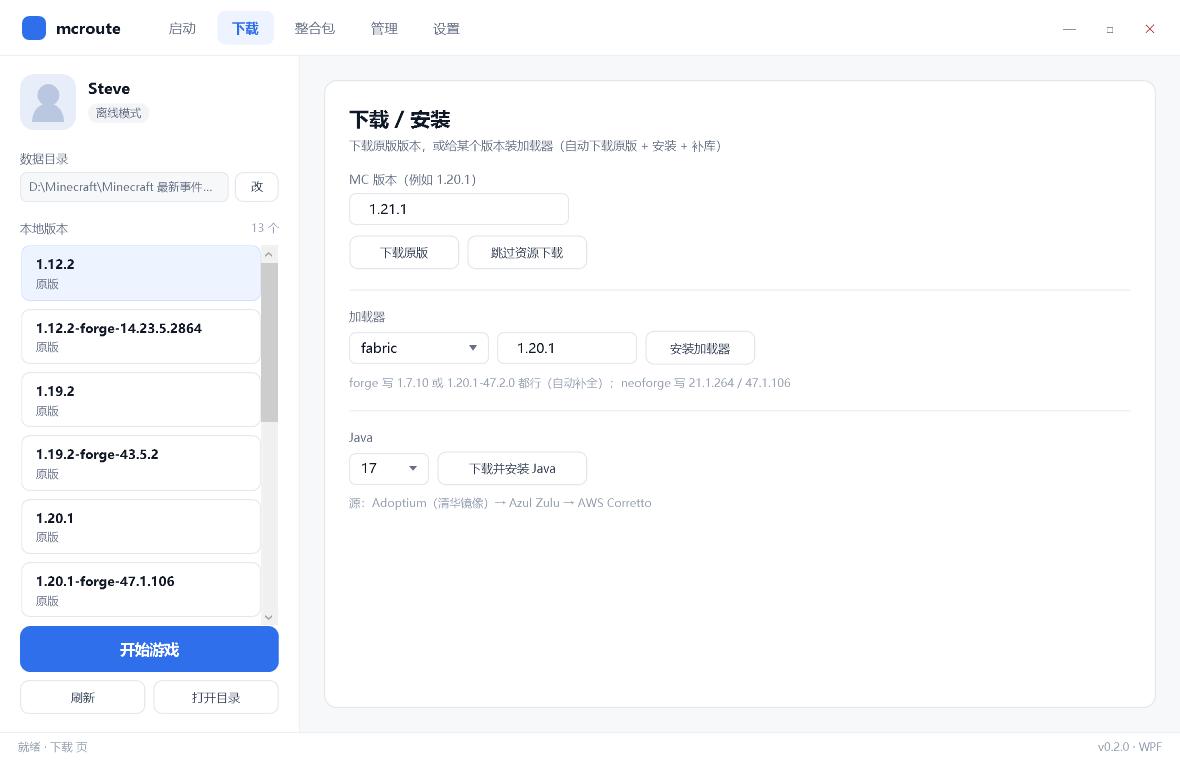
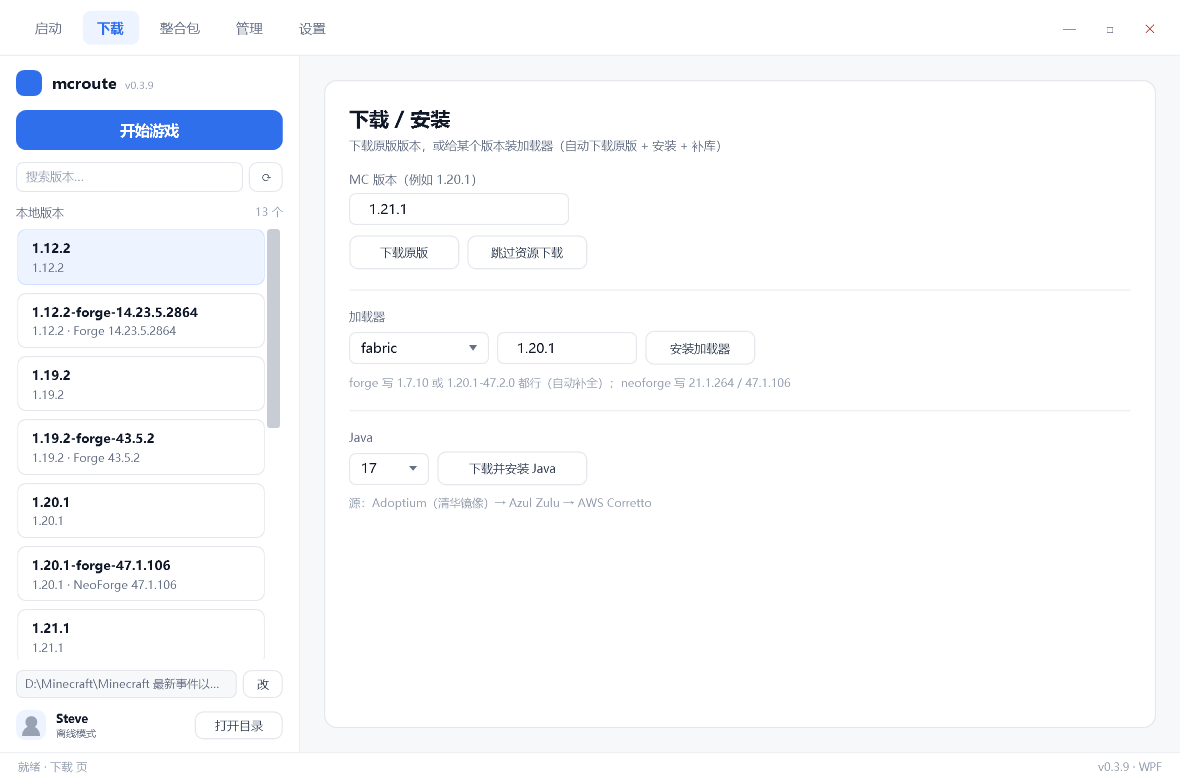
feat(wpf): DSH-style sidebar (brand, primary button on top, version search, footer account); window-wide background layer for glass; 0.3.9

diff --git a/csharp-wpf/MainWindow.xaml b/csharp-wpf/MainWindow.xaml
@@ -366,20 +366,14 @@
         </Grid.RowDefinitions>
 
         <!-- ================= 顶部 ================= -->
-        <Grid Grid.Row="0" Background="{DynamicResource Surface}">
+        <Grid x:Name="TopBar" Grid.Row="0" Background="{DynamicResource Surface}">
             <Grid.ColumnDefinitions>
                 <ColumnDefinition Width="Auto"/>
                 <ColumnDefinition Width="*"/>
                 <ColumnDefinition Width="Auto"/>
             </Grid.ColumnDefinitions>
 
-            <StackPanel Orientation="Horizontal" Margin="22,0,0,0" VerticalAlignment="Center">
-                <Border Width="24" Height="24" CornerRadius="7" Background="{DynamicResource Primary}"/>
-                <TextBlock Text="mcroute" Margin="10,0,0,0" FontSize="15" FontWeight="SemiBold"
-                           Foreground="{DynamicResource Text}" VerticalAlignment="Center"/>
-            </StackPanel>
-
-            <StackPanel Grid.Column="1" Orientation="Horizontal" Margin="34,0,0,0" VerticalAlignment="Center"
+            <StackPanel Grid.Column="1" Orientation="Horizontal" Margin="20,0,0,0" VerticalAlignment="Center"
                         shell:WindowChrome.IsHitTestVisibleInChrome="True">
                 <RadioButton x:Name="NavLaunch" Style="{StaticResource NavItem}" Content="启动" IsChecked="True"
                              GroupName="nav" Checked="Nav_Checked"/>
@@ -410,87 +404,8 @@
                 <ColumnDefinition Width="*"/>
             </Grid.ColumnDefinitions>
 
-            <!-- 左侧栏 -->
-            <Border Background="{DynamicResource Surface}" BorderBrush="{DynamicResource Hairline}" BorderThickness="0,0,1,0">
-                <Grid Margin="20,18,20,18">
-                    <Grid.RowDefinitions>
-                        <RowDefinition Height="Auto"/>
-                        <RowDefinition Height="Auto"/>
-                        <RowDefinition Height="*"/>
-                        <RowDefinition Height="Auto"/>
-                    </Grid.RowDefinitions>
-
-                    <StackPanel Grid.Row="0" Orientation="Horizontal">
-                        <Border Width="56" Height="56" CornerRadius="14" Background="{DynamicResource PrimaryDim}">
-                            <Grid>
-                                <Ellipse Width="22" Height="22" Fill="{DynamicResource TextFaint}" VerticalAlignment="Top" Margin="0,10,0,0"/>
-                                <Path Fill="{DynamicResource TextFaint}" Data="M0,19 C0,7 32,7 32,19 Z" Width="32" Height="19"
-                                      Stretch="Fill" VerticalAlignment="Bottom" HorizontalAlignment="Center" Margin="0,0,0,8"/>
-                            </Grid>
-                        </Border>
-                        <StackPanel Margin="12,4,0,0">
-                            <TextBlock Text="Steve" FontSize="15" FontWeight="SemiBold" Foreground="{DynamicResource Text}"/>
-                            <Border Background="{DynamicResource Hairline}" CornerRadius="9" Padding="8,2" Margin="0,5,0,0" HorizontalAlignment="Left">
-                                <TextBlock Text="离线模式" FontSize="11" Foreground="{DynamicResource TextMuted}"/>
-                            </Border>
-                        </StackPanel>
-                    </StackPanel>
-
-                    <StackPanel Grid.Row="1" Margin="0,20,0,0">
-                        <TextBlock Text="数据目录" Style="{StaticResource FieldLabel}"/>
-                        <Grid>
-                            <Grid.ColumnDefinitions>
-                                <ColumnDefinition Width="*"/>
-                                <ColumnDefinition Width="Auto"/>
-                            </Grid.ColumnDefinitions>
-                            <Border Grid.Column="0" Height="30" CornerRadius="6" Background="{DynamicResource Bg}"
-                                    BorderBrush="{DynamicResource Border}" BorderThickness="1" Padding="8,0">
-                                <TextBlock x:Name="DataDirText" Text="…" FontSize="11" Foreground="{DynamicResource TextMuted}"
-                                           VerticalAlignment="Center" TextTrimming="CharacterEllipsis"/>
-                            </Border>
-                            <Button Grid.Column="1" Style="{StaticResource GhostButton}" Content="改"
-                                    Width="44" Height="30" Margin="6,0,0,0" Click="PickDataDir_Click"/>
-                        </Grid>
-                    </StackPanel>
-
-                    <Grid Grid.Row="2" Margin="0,18,0,0">
-                        <Grid.RowDefinitions>
-                            <RowDefinition Height="Auto"/>
-                            <RowDefinition Height="*"/>
-                        </Grid.RowDefinitions>
-                        <Grid Grid.Row="0" Margin="0,0,0,8">
-                            <TextBlock Text="本地版本" Style="{StaticResource FieldLabel}" Margin="0"/>
-                            <TextBlock x:Name="VersionCount" Text="" FontSize="11" Foreground="{DynamicResource TextFaint}"
-                                       HorizontalAlignment="Right"/>
-                        </Grid>
-                        <ListBox x:Name="VersionList" Grid.Row="1" Style="{StaticResource PlainListBox}"
-                                 SelectionChanged="VersionList_SelectionChanged"
-                                 ScrollViewer.VerticalScrollBarVisibility="Auto"/>
-                    </Grid>
-
-                    <StackPanel Grid.Row="3">
-                        <Button x:Name="PlayButton" Style="{StaticResource PrimaryButton}" Content="开始游戏"
-                                Click="Play_Click"/>
-                        <Grid Margin="0,8,0,0">
-                            <Grid.ColumnDefinitions>
-                                <ColumnDefinition Width="*"/>
-                                <ColumnDefinition Width="8"/>
-                                <ColumnDefinition Width="*"/>
-                            </Grid.ColumnDefinitions>
-                            <Button Grid.Column="0" Style="{StaticResource GhostButton}" Content="刷新"
-                                    Click="Refresh_Click"/>
-                            <Button Grid.Column="2" Style="{StaticResource GhostButton}" Content="打开目录"
-                                    Click="OpenDir_Click"/>
-                        </Grid>
-                    </StackPanel>
-                </Grid>
-            </Border>
-
-            <!-- 右侧内容 -->
-            <Grid Grid.Column="1" ClipToBounds="True">
-
                 <!-- 启动页背景：默认是矢量山形；也可以在设置里换成自己的图片 -->
-                <Grid x:Name="HeroLayer">
+                <Grid x:Name="HeroLayer" Grid.ColumnSpan="2">
                     <Grid.Background>
                         <LinearGradientBrush StartPoint="0,0" EndPoint="1,1">
                             <GradientStop Color="#1B2A4A" Offset="0"/>
@@ -520,6 +435,107 @@
                         </Border.Background>
                     </Border>
                 </Grid>
+
+            <!-- 左侧栏 -->
+            <Border x:Name="Sidebar" Grid.Column="0" Background="{DynamicResource Surface}"
+                    BorderBrush="{DynamicResource Hairline}" BorderThickness="0,0,1,0">
+                <Grid Margin="16,14,16,12">
+                    <Grid.RowDefinitions>
+                        <RowDefinition Height="Auto"/>
+                        <RowDefinition Height="Auto"/>
+                        <RowDefinition Height="Auto"/>
+                        <RowDefinition Height="*"/>
+                        <RowDefinition Height="Auto"/>
+                        <RowDefinition Height="Auto"/>
+                    </Grid.RowDefinitions>
+
+                    <!-- 品牌 -->
+                    <StackPanel Grid.Row="0" Orientation="Horizontal" VerticalAlignment="Center">
+                        <Border Width="26" Height="26" CornerRadius="8" Background="{DynamicResource Primary}"/>
+                        <TextBlock Text="mcroute" Margin="10,0,0,0" FontSize="15" FontWeight="SemiBold"
+                                   Foreground="{DynamicResource Text}" VerticalAlignment="Center"/>
+                        <TextBlock x:Name="SideVersion" Text="" FontSize="10" Margin="8,3,0,0"
+                                   Foreground="{DynamicResource TextFaint}" VerticalAlignment="Center"/>
+                    </StackPanel>
+
+                    <!-- 主按钮 -->
+                    <Button x:Name="PlayButton" Grid.Row="1" Style="{StaticResource PrimaryButton}"
+                            Content="开始游戏" Height="40" Margin="0,14,0,0" Click="Play_Click"/>
+
+                    <!-- 搜索 + 刷新 -->
+                    <Grid Grid.Row="2" Margin="0,12,0,0">
+                        <Grid.ColumnDefinitions>
+                            <ColumnDefinition Width="*"/>
+                            <ColumnDefinition Width="Auto"/>
+                        </Grid.ColumnDefinitions>
+                        <Grid Grid.Column="0">
+                            <TextBox x:Name="VersionSearch" Height="30" TextChanged="VersionSearch_TextChanged"/>
+                            <TextBlock x:Name="SearchHint" Text="搜索版本…" FontSize="12"
+                                       Foreground="{DynamicResource TextFaint}" Margin="10,0,0,0"
+                                       VerticalAlignment="Center" IsHitTestVisible="False"/>
+                        </Grid>
+                        <Button Grid.Column="1" Style="{StaticResource GhostButton}" Content="⟳" Width="34" Height="30"
+                                Margin="6,0,0,0" ToolTip="刷新版本列表" Click="Refresh_Click"/>
+                    </Grid>
+
+                    <!-- 版本列表 -->
+                    <Grid Grid.Row="3" Margin="0,12,0,0">
+                        <Grid.RowDefinitions>
+                            <RowDefinition Height="Auto"/>
+                            <RowDefinition Height="*"/>
+                        </Grid.RowDefinitions>
+                        <Grid Grid.Row="0" Margin="0,0,0,8">
+                            <TextBlock Text="本地版本" Style="{StaticResource FieldLabel}" Margin="0"/>
+                            <TextBlock x:Name="VersionCount" Text="" FontSize="11" Foreground="{DynamicResource TextFaint}"
+                                       HorizontalAlignment="Right"/>
+                        </Grid>
+                        <ListBox x:Name="VersionList" Grid.Row="1" Style="{StaticResource PlainListBox}"
+                                 SelectionChanged="VersionList_SelectionChanged"
+                                 ScrollViewer.VerticalScrollBarVisibility="Auto"/>
+                    </Grid>
+
+                    <!-- 数据目录（紧凑一行） -->
+                    <Grid Grid.Row="4" Margin="0,10,0,0">
+                        <Grid.ColumnDefinitions>
+                            <ColumnDefinition Width="*"/>
+                            <ColumnDefinition Width="Auto"/>
+                        </Grid.ColumnDefinitions>
+                        <Border Grid.Column="0" Height="28" CornerRadius="6" Background="{DynamicResource Bg}"
+                                BorderBrush="{DynamicResource Border}" BorderThickness="1" Padding="8,0"
+                                ToolTip="{Binding ElementName=DataDirText, Path=Text}">
+                            <TextBlock x:Name="DataDirText" Text="…" FontSize="11" Foreground="{DynamicResource TextMuted}"
+                                       VerticalAlignment="Center" TextTrimming="CharacterEllipsis"/>
+                        </Border>
+                        <Button Grid.Column="1" Style="{StaticResource GhostButton}" Content="改" Width="40" Height="28"
+                                Margin="6,0,0,0" Click="PickDataDir_Click"/>
+                    </Grid>
+
+                    <!-- 底部账号 -->
+                    <Grid Grid.Row="5" Margin="0,12,0,0">
+                        <Grid.ColumnDefinitions>
+                            <ColumnDefinition Width="Auto"/>
+                            <ColumnDefinition Width="*"/>
+                            <ColumnDefinition Width="Auto"/>
+                        </Grid.ColumnDefinitions>
+                        <Border Width="30" Height="30" CornerRadius="9" Background="{DynamicResource PrimaryDim}">
+                            <Grid>
+                                <Ellipse Width="12" Height="12" Fill="{DynamicResource TextFaint}" VerticalAlignment="Top" Margin="0,6,0,0"/>
+                                <Path Fill="{DynamicResource TextFaint}" Data="M0,10 C0,4 18,4 18,10 Z" Width="18" Height="10"
+                                      Stretch="Fill" VerticalAlignment="Bottom" HorizontalAlignment="Center" Margin="0,0,0,4"/>
+                            </Grid>
+                        </Border>
+                        <StackPanel Grid.Column="1" Margin="10,0,0,0" VerticalAlignment="Center">
+                            <TextBlock Text="Steve" FontSize="12" FontWeight="SemiBold" Foreground="{DynamicResource Text}"/>
+                            <TextBlock Text="离线模式" FontSize="10" Foreground="{DynamicResource TextMuted}"/>
+                        </StackPanel>
+                        <Button Grid.Column="2" Style="{StaticResource GhostButton}" Content="打开目录" Width="88" Height="28"
+                                Click="OpenDir_Click"/>
+                    </Grid>
+                </Grid>
+            </Border>
+
+            <!-- 右侧内容 -->
+            <Grid Grid.Column="1" ClipToBounds="True">
 
                 <!-- 启动页 -->
                 <Grid x:Name="PageLaunch">

diff --git a/csharp-wpf/MainWindow.xaml.cs b/csharp-wpf/MainWindow.xaml.cs
@@ -46,6 +46,7 @@ namespace Mcroute.Wpf
                     int plus = shown.IndexOf('+');
                     if (plus > 0) shown = shown.Substring(0, plus);
                     VersionText.Text = "v" + shown + " · WPF";
+                    if (SideVersion != null) SideVersion.Text = "v" + shown;
                 }
                 catch { }
 
@@ -278,8 +279,18 @@ namespace Mcroute.Wpf
         // ================= 版本列表 =================
         private void Refresh_Click(object sender, RoutedEventArgs e) { RefreshVersions(); }
 
-        private void RefreshVersions()
+        private void VersionSearch_TextChanged(object sender, TextChangedEventArgs e)
         {
+            if (VersionSearch == null) return;
+            string q = VersionSearch.Text ?? "";
+            if (SearchHint != null)
+                SearchHint.Visibility = string.IsNullOrEmpty(q) ? Visibility.Visible : Visibility.Collapsed;
+            RefreshVersions(q);
+        }
+
+        private void RefreshVersions(string filter = null)
+        {
+            string q = (filter ?? "").Trim().ToLowerInvariant();
             _versions.Clear();
             VersionList.Items.Clear();
 
@@ -302,13 +313,20 @@ namespace Mcroute.Wpf
                 if (isPack) tag += " · 整合包";
                 else if (hasMods && string.IsNullOrEmpty(loader)) tag += " · 外部";
 
+                if (q.Length > 0 &&
+                    name.ToLowerInvariant().IndexOf(q, StringComparison.Ordinal) < 0 &&
+                    tag.ToLowerInvariant().IndexOf(q, StringComparison.Ordinal) < 0)
+                    continue;
+
                 _versions.Add(name);
                 VersionList.Items.Add(MakeVersionItem(name, tag));
             }
 
             VersionCount.Text = _versions.Count + " 个";
             if (VersionList.Items.Count > 0) VersionList.SelectedIndex = 0;
-            AppendLog("找到 " + _versions.Count + " 个本地版本");
+            AppendLog(q.Length > 0
+                ? "搜索「" + filter + "」→ " + _versions.Count + " 个"
+                : "找到 " + _versions.Count + " 个本地版本");
         }
 
         private static ListBoxItem MakeVersionItem(string name, string tag)
@@ -497,7 +515,7 @@ namespace Mcroute.Wpf
             var args = noAssets
                 ? new[] { "fetch", ver, "--dir", _baseDir, "--no-assets" }
                 : new[] { "fetch", ver, "--dir", _baseDir };
-            RunTask("下载 " + ver, () => Commands.Fetch(args), RefreshVersions);
+            RunTask("下载 " + ver, () => Commands.Fetch(args), () => RefreshVersions());
         }
 
         private void Loader_Click(object sender, RoutedEventArgs e)
@@ -506,7 +524,7 @@ namespace Mcroute.Wpf
             string ver = LoaderVersion.Text.Trim();
             if (ver.Length == 0) { MessageBox.Show("先填版本号", "提示"); return; }
             RunTask("安装 " + kind + " " + ver,
-                () => Loader.Run(new[] { "loader", kind, ver, "--dir", _baseDir }), RefreshVersions);
+                () => Loader.Run(new[] { "loader", kind, ver, "--dir", _baseDir }), () => RefreshVersions());
         }
 
         private void InstallJava_Click(object sender, RoutedEventArgs e)
@@ -536,7 +554,7 @@ namespace Mcroute.Wpf
             string path = PackPath.Text.Trim();
             if (path.Length == 0) { MessageBox.Show("先选一个整合包文件", "提示"); return; }
             RunTask("安装 " + Path.GetFileName(path),
-                () => Packs.Install(new[] { "install", path, "--dir", _baseDir }), RefreshVersions);
+                () => Packs.Install(new[] { "install", path, "--dir", _baseDir }), () => RefreshVersions());
         }
 
         // ================= 管理页 =================
@@ -778,6 +796,8 @@ namespace Mcroute.Wpf
                 {
                     if (res["SurfaceGlass"] != null) res["Surface"] = res["SurfaceGlass"];
                     if (res["BorderGlass"] != null) res["Border"] = res["BorderGlass"];
+                    if (Sidebar != null) Sidebar.Background = res["SurfaceGlass"] as Brush;
+                    if (TopBar != null) TopBar.Background = System.Windows.Media.Brushes.Transparent;
                     PageDownload.Background = System.Windows.Media.Brushes.Transparent;
                     PagePacks.Background = System.Windows.Media.Brushes.Transparent;
                     PageManage.Background = System.Windows.Media.Brushes.Transparent;
@@ -789,6 +809,8 @@ namespace Mcroute.Wpf
                     PagePacks.SetResourceReference(Panel.BackgroundProperty, "Bg");
                     PageManage.SetResourceReference(Panel.BackgroundProperty, "Bg");
                     PageSettings.SetResourceReference(Panel.BackgroundProperty, "Bg");
+                    if (Sidebar != null) Sidebar.SetResourceReference(Border.BackgroundProperty, "Surface");
+                    if (TopBar != null) TopBar.SetResourceReference(Panel.BackgroundProperty, "Surface");
                 }
 
                 if (updateBox && GlassBox != null) GlassBox.IsChecked = on;

diff --git a/csharp-wpf/Theme.cs b/csharp-wpf/Theme.cs
@@ -30,14 +30,14 @@ namespace Mcroute
         {
             "#F7F8FA", "#FFFFFF", "#E4E7EC", "#EDEFF2", "#2F6FEB", "#EEF4FF", "#CFE0FF",
             "#101828", "#344054", "#667085", "#98A2B3", "#F2FFFFFF", "#FAFBFC", "#EDEFF2", "#FAFBFE",
-            "#DEFFFFFF", "#66000000",
+            "#CCFFFFFF", "#4D000000",
         };
 
         private static readonly string[] DarkColors =
         {
             "#10141A", "#171C24", "#28303C", "#222A35", "#4C8DFF", "#1E2C42", "#3A5C8C",
             "#E9EEF6", "#B7C2D0", "#8B97A8", "#6D7889", "#E6171C24", "#1D232C", "#2A3340", "#1F2733",
-            "#D0171C24", "#33FFFFFF",
+            "#C0171C24", "#33FFFFFF",
         };
 
         /// <summary>应用主题：mode = "light" | "dark" | "auto"。</summary>
